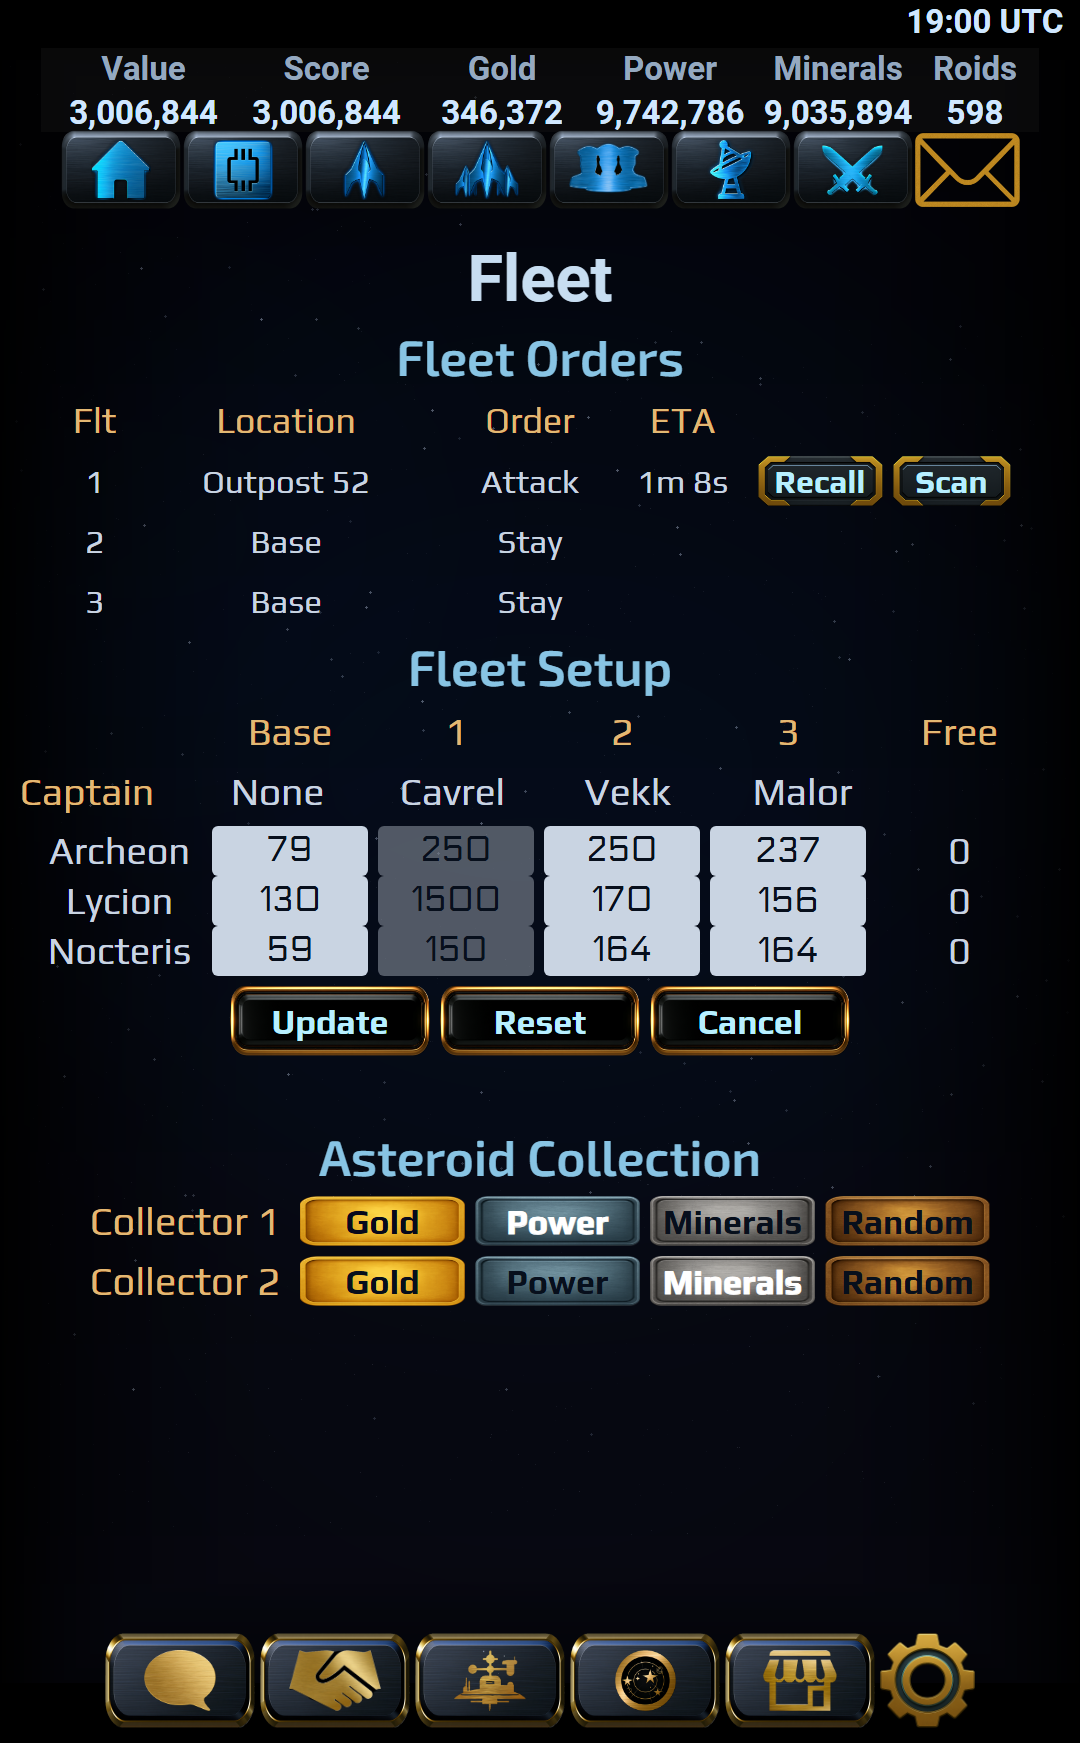
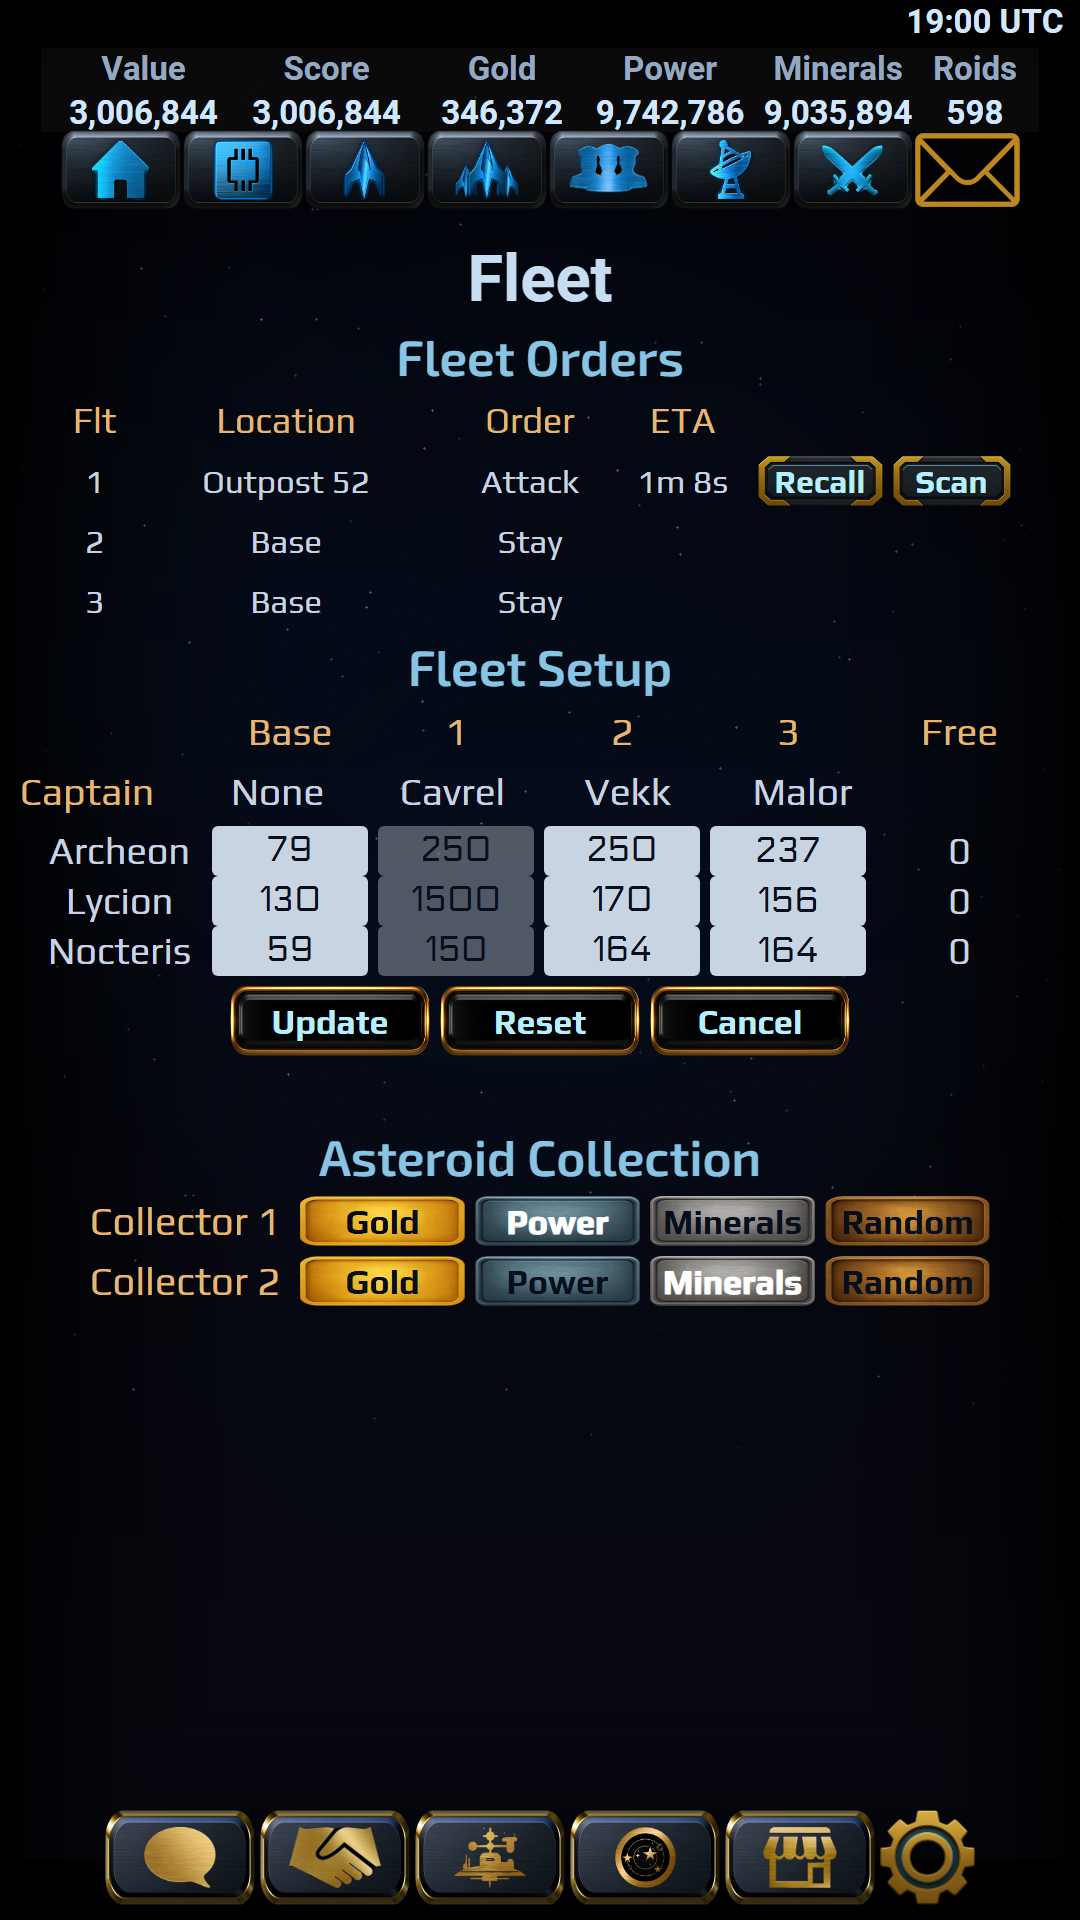
Beta: all three screens at the same phone size, 1080x1920 (owner 2026-10-23)
Home and Fleet back to the uncut renders (lossless WebP), so they match the Map. Tracking copies regenerated.

diff --git a/beta/ig/index.html b/beta/ig/index.html
@@ -845,8 +845,8 @@
 
       <div class="screens">
         <a href="/img/beta-map.webp" target="_blank" rel="noopener"><img src="/img/beta-map.webp" width="1080" height="1920" loading="lazy" alt="Star Thrown galaxy map: Stardust's fleet and three allied fleets closing on Outpost 52." /></a>
-        <a href="/img/beta-home.webp" target="_blank" rel="noopener"><img src="/img/beta-home.webp" width="1080" height="1743" loading="lazy" alt="Star Thrown Home screen: Fleet 1 is on its way to attack Outpost 52, with resources, news and the round's end date." /></a>
-        <a href="/img/beta-fleet.webp" target="_blank" rel="noopener"><img src="/img/beta-fleet.webp" width="1080" height="1743" loading="lazy" alt="Star Thrown Fleet screen: orders for three fleets, with Fleet 1 attacking Outpost 52, and each fleet's captain and ships." /></a>
+        <a href="/img/beta-home.webp" target="_blank" rel="noopener"><img src="/img/beta-home.webp" width="1080" height="1920" loading="lazy" alt="Star Thrown Home screen: Fleet 1 is on its way to attack Outpost 52, with resources, news and the round's end date." /></a>
+        <a href="/img/beta-fleet.webp" target="_blank" rel="noopener"><img src="/img/beta-fleet.webp" width="1080" height="1920" loading="lazy" alt="Star Thrown Fleet screen: orders for three fleets, with Fleet 1 attacking Outpost 52, and each fleet's captain and ships." /></a>
       </div>
 
       <div class="info-row">

diff --git a/beta/ig1-asia/index.html b/beta/ig1-asia/index.html
@@ -845,8 +845,8 @@
 
       <div class="screens">
         <a href="/img/beta-map.webp" target="_blank" rel="noopener"><img src="/img/beta-map.webp" width="1080" height="1920" loading="lazy" alt="Star Thrown galaxy map: Stardust's fleet and three allied fleets closing on Outpost 52." /></a>
-        <a href="/img/beta-home.webp" target="_blank" rel="noopener"><img src="/img/beta-home.webp" width="1080" height="1743" loading="lazy" alt="Star Thrown Home screen: Fleet 1 is on its way to attack Outpost 52, with resources, news and the round's end date." /></a>
-        <a href="/img/beta-fleet.webp" target="_blank" rel="noopener"><img src="/img/beta-fleet.webp" width="1080" height="1743" loading="lazy" alt="Star Thrown Fleet screen: orders for three fleets, with Fleet 1 attacking Outpost 52, and each fleet's captain and ships." /></a>
+        <a href="/img/beta-home.webp" target="_blank" rel="noopener"><img src="/img/beta-home.webp" width="1080" height="1920" loading="lazy" alt="Star Thrown Home screen: Fleet 1 is on its way to attack Outpost 52, with resources, news and the round's end date." /></a>
+        <a href="/img/beta-fleet.webp" target="_blank" rel="noopener"><img src="/img/beta-fleet.webp" width="1080" height="1920" loading="lazy" alt="Star Thrown Fleet screen: orders for three fleets, with Fleet 1 attacking Outpost 52, and each fleet's captain and ships." /></a>
       </div>
 
       <div class="info-row">

diff --git a/beta/ig2-asia/index.html b/beta/ig2-asia/index.html
@@ -845,8 +845,8 @@
 
       <div class="screens">
         <a href="/img/beta-map.webp" target="_blank" rel="noopener"><img src="/img/beta-map.webp" width="1080" height="1920" loading="lazy" alt="Star Thrown galaxy map: Stardust's fleet and three allied fleets closing on Outpost 52." /></a>
-        <a href="/img/beta-home.webp" target="_blank" rel="noopener"><img src="/img/beta-home.webp" width="1080" height="1743" loading="lazy" alt="Star Thrown Home screen: Fleet 1 is on its way to attack Outpost 52, with resources, news and the round's end date." /></a>
-        <a href="/img/beta-fleet.webp" target="_blank" rel="noopener"><img src="/img/beta-fleet.webp" width="1080" height="1743" loading="lazy" alt="Star Thrown Fleet screen: orders for three fleets, with Fleet 1 attacking Outpost 52, and each fleet's captain and ships." /></a>
+        <a href="/img/beta-home.webp" target="_blank" rel="noopener"><img src="/img/beta-home.webp" width="1080" height="1920" loading="lazy" alt="Star Thrown Home screen: Fleet 1 is on its way to attack Outpost 52, with resources, news and the round's end date." /></a>
+        <a href="/img/beta-fleet.webp" target="_blank" rel="noopener"><img src="/img/beta-fleet.webp" width="1080" height="1920" loading="lazy" alt="Star Thrown Fleet screen: orders for three fleets, with Fleet 1 attacking Outpost 52, and each fleet's captain and ships." /></a>
       </div>
 
       <div class="info-row">

diff --git a/beta/ig3-asia/index.html b/beta/ig3-asia/index.html
@@ -845,8 +845,8 @@
 
       <div class="screens">
         <a href="/img/beta-map.webp" target="_blank" rel="noopener"><img src="/img/beta-map.webp" width="1080" height="1920" loading="lazy" alt="Star Thrown galaxy map: Stardust's fleet and three allied fleets closing on Outpost 52." /></a>
-        <a href="/img/beta-home.webp" target="_blank" rel="noopener"><img src="/img/beta-home.webp" width="1080" height="1743" loading="lazy" alt="Star Thrown Home screen: Fleet 1 is on its way to attack Outpost 52, with resources, news and the round's end date." /></a>
-        <a href="/img/beta-fleet.webp" target="_blank" rel="noopener"><img src="/img/beta-fleet.webp" width="1080" height="1743" loading="lazy" alt="Star Thrown Fleet screen: orders for three fleets, with Fleet 1 attacking Outpost 52, and each fleet's captain and ships." /></a>
+        <a href="/img/beta-home.webp" target="_blank" rel="noopener"><img src="/img/beta-home.webp" width="1080" height="1920" loading="lazy" alt="Star Thrown Home screen: Fleet 1 is on its way to attack Outpost 52, with resources, news and the round's end date." /></a>
+        <a href="/img/beta-fleet.webp" target="_blank" rel="noopener"><img src="/img/beta-fleet.webp" width="1080" height="1920" loading="lazy" alt="Star Thrown Fleet screen: orders for three fleets, with Fleet 1 attacking Outpost 52, and each fleet's captain and ships." /></a>
       </div>
 
       <div class="info-row">

diff --git a/beta/ig4-asia/index.html b/beta/ig4-asia/index.html
@@ -845,8 +845,8 @@
 
       <div class="screens">
         <a href="/img/beta-map.webp" target="_blank" rel="noopener"><img src="/img/beta-map.webp" width="1080" height="1920" loading="lazy" alt="Star Thrown galaxy map: Stardust's fleet and three allied fleets closing on Outpost 52." /></a>
-        <a href="/img/beta-home.webp" target="_blank" rel="noopener"><img src="/img/beta-home.webp" width="1080" height="1743" loading="lazy" alt="Star Thrown Home screen: Fleet 1 is on its way to attack Outpost 52, with resources, news and the round's end date." /></a>
-        <a href="/img/beta-fleet.webp" target="_blank" rel="noopener"><img src="/img/beta-fleet.webp" width="1080" height="1743" loading="lazy" alt="Star Thrown Fleet screen: orders for three fleets, with Fleet 1 attacking Outpost 52, and each fleet's captain and ships." /></a>
+        <a href="/img/beta-home.webp" target="_blank" rel="noopener"><img src="/img/beta-home.webp" width="1080" height="1920" loading="lazy" alt="Star Thrown Home screen: Fleet 1 is on its way to attack Outpost 52, with resources, news and the round's end date." /></a>
+        <a href="/img/beta-fleet.webp" target="_blank" rel="noopener"><img src="/img/beta-fleet.webp" width="1080" height="1920" loading="lazy" alt="Star Thrown Fleet screen: orders for three fleets, with Fleet 1 attacking Outpost 52, and each fleet's captain and ships." /></a>
       </div>
 
       <div class="info-row">

diff --git a/beta/ig4/index.html b/beta/ig4/index.html
@@ -845,8 +845,8 @@
 
       <div class="screens">
         <a href="/img/beta-map.webp" target="_blank" rel="noopener"><img src="/img/beta-map.webp" width="1080" height="1920" loading="lazy" alt="Star Thrown galaxy map: Stardust's fleet and three allied fleets closing on Outpost 52." /></a>
-        <a href="/img/beta-home.webp" target="_blank" rel="noopener"><img src="/img/beta-home.webp" width="1080" height="1743" loading="lazy" alt="Star Thrown Home screen: Fleet 1 is on its way to attack Outpost 52, with resources, news and the round's end date." /></a>
-        <a href="/img/beta-fleet.webp" target="_blank" rel="noopener"><img src="/img/beta-fleet.webp" width="1080" height="1743" loading="lazy" alt="Star Thrown Fleet screen: orders for three fleets, with Fleet 1 attacking Outpost 52, and each fleet's captain and ships." /></a>
+        <a href="/img/beta-home.webp" target="_blank" rel="noopener"><img src="/img/beta-home.webp" width="1080" height="1920" loading="lazy" alt="Star Thrown Home screen: Fleet 1 is on its way to attack Outpost 52, with resources, news and the round's end date." /></a>
+        <a href="/img/beta-fleet.webp" target="_blank" rel="noopener"><img src="/img/beta-fleet.webp" width="1080" height="1920" loading="lazy" alt="Star Thrown Fleet screen: orders for three fleets, with Fleet 1 attacking Outpost 52, and each fleet's captain and ships." /></a>
       </div>
 
       <div class="info-row">

diff --git a/beta/index.html b/beta/index.html
@@ -843,8 +843,8 @@
 
       <div class="screens">
         <a href="/img/beta-map.webp" target="_blank" rel="noopener"><img src="/img/beta-map.webp" width="1080" height="1920" loading="lazy" alt="Star Thrown galaxy map: Stardust's fleet and three allied fleets closing on Outpost 52." /></a>
-        <a href="/img/beta-home.webp" target="_blank" rel="noopener"><img src="/img/beta-home.webp" width="1080" height="1743" loading="lazy" alt="Star Thrown Home screen: Fleet 1 is on its way to attack Outpost 52, with resources, news and the round's end date." /></a>
-        <a href="/img/beta-fleet.webp" target="_blank" rel="noopener"><img src="/img/beta-fleet.webp" width="1080" height="1743" loading="lazy" alt="Star Thrown Fleet screen: orders for three fleets, with Fleet 1 attacking Outpost 52, and each fleet's captain and ships." /></a>
+        <a href="/img/beta-home.webp" target="_blank" rel="noopener"><img src="/img/beta-home.webp" width="1080" height="1920" loading="lazy" alt="Star Thrown Home screen: Fleet 1 is on its way to attack Outpost 52, with resources, news and the round's end date." /></a>
+        <a href="/img/beta-fleet.webp" target="_blank" rel="noopener"><img src="/img/beta-fleet.webp" width="1080" height="1920" loading="lazy" alt="Star Thrown Fleet screen: orders for three fleets, with Fleet 1 attacking Outpost 52, and each fleet's captain and ships." /></a>
       </div>
 
       <div class="info-row">
